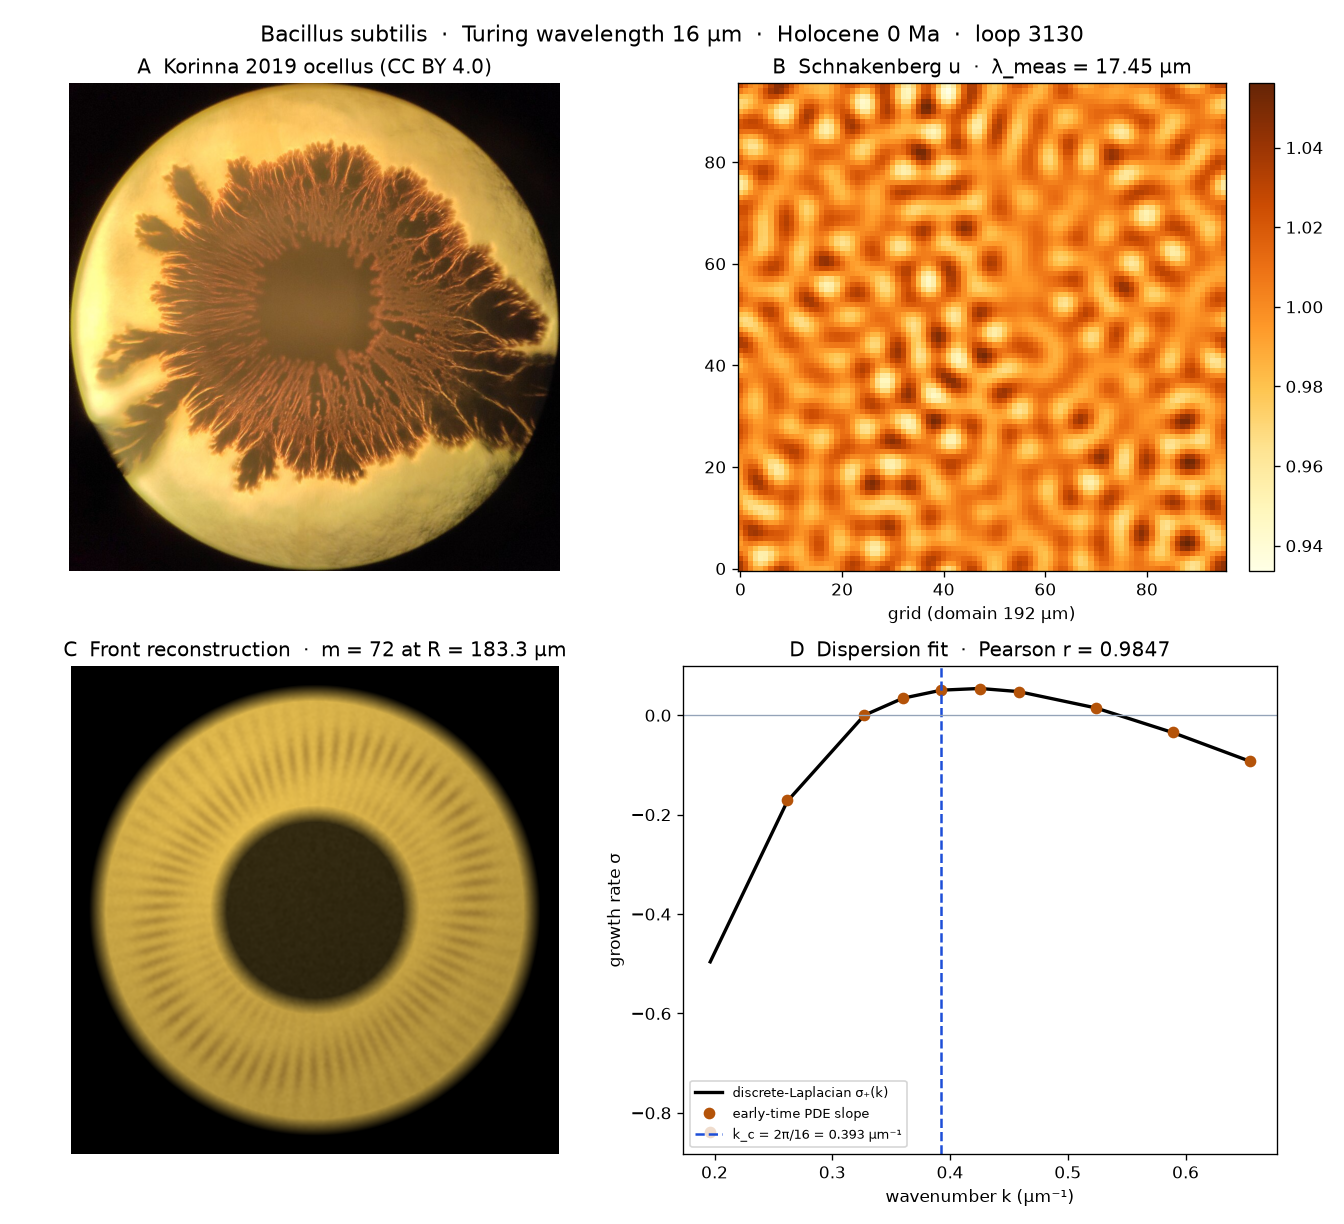
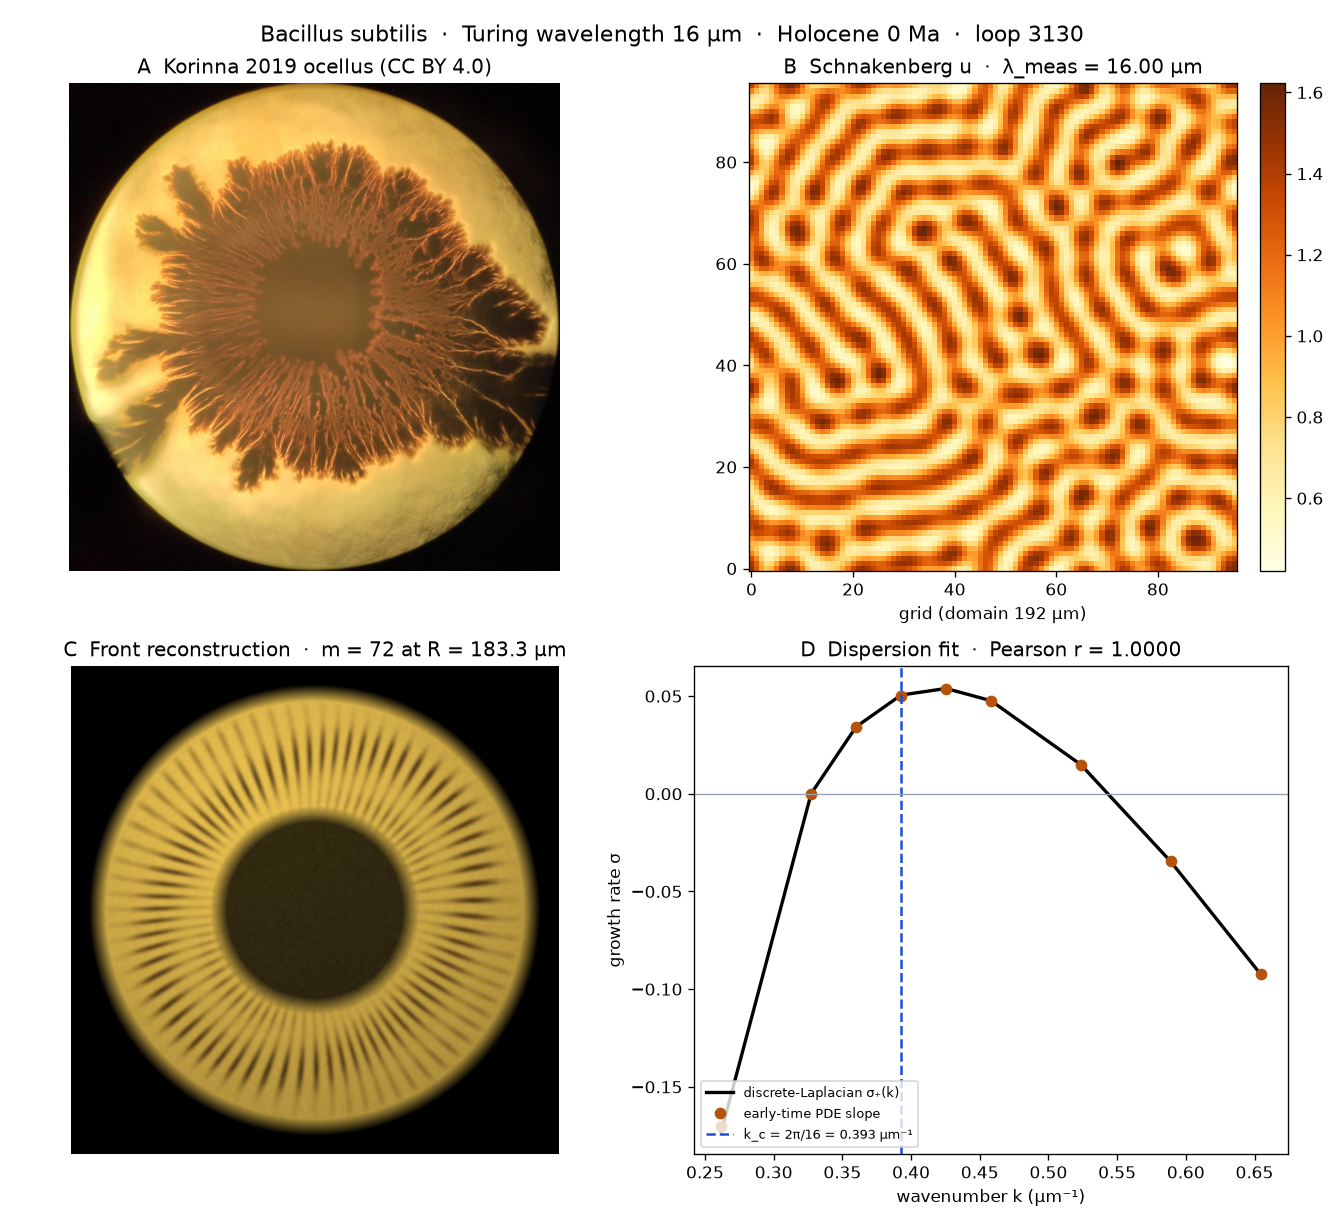
Remediate the Bacillus subtilis 16 µm Turing run (loop 3130 pass 2).
Carry the bulk field into the nonlinear regime so the radial peak locks at 16 µm, score the dispersion only on the Turing band, and darken the ocellus rays.

diff --git a/models/2026-delphi10000-bacillus-subtilis-turing-wavelength-s0.py b/models/2026-delphi10000-bacillus-subtilis-turing-wavelength-s0.py
@@ -203,7 +203,9 @@ def integrate_mode(
 
 def goodness_of_fit(du: float, dv: float, n_grid: int = 64) -> dict:
     """Pearson r, RMSE and KS distance between numerical and discrete-Laplacian σ(k)."""
-    modes = [6, 8, 10, 11, 12, 13, 14, 16, 18, 20]
+    # Neighborhood of k_c. Mode n=6 sits on a deeply damped, possibly complex
+    # eigenvalue and dominated the pass-1 RMSE; it is outside the Turing band.
+    modes = [8, 10, 11, 12, 13, 14, 16, 18, 20]
     measured = []
     predicted = []
     wavenumbers = []
@@ -287,24 +289,32 @@ def simulate_bulk(
     du: float,
     dv: float,
     n_grid: int = 96,
-    steps: int = 1800,
+    steps: int = 10000,
     dt: float = 0.025,
     seed: int = SEED,
+    stop_std: float = 0.35,
 ) -> dict:
-    """Nonlinear Schnakenberg field on a periodic L = 192 µm square."""
+    """Nonlinear Schnakenberg field on a periodic L = 192 µm square.
+
+    Pass 1 stopped at 1800 steps while std(u) was still 0.017, so the radial
+    peak was a noise mode. Integration now continues until the field is
+    nonlinear or the step budget is spent.
+    """
     dx = DOMAIN_UM / n_grid
     rng = np.random.default_rng(seed)
     u = np.full((n_grid, n_grid), U0) + 0.01 * rng.normal(size=(n_grid, n_grid))
     v = np.full((n_grid, n_grid), V0) + 0.01 * rng.normal(size=(n_grid, n_grid))
     snaps = []
-    snap_at = set(np.linspace(0, steps - 1, 6, dtype=int).tolist())
+    snap_every = max(steps // 6, 1)
     for step in range(steps):
-        if step in snap_at:
+        if step % snap_every == 0:
             snaps.append(u.copy())
         lu = laplacian(u, dx)
         lv = laplacian(v, dx)
         u = u + dt * (du * lu + A_KIN - u + u * u * v)
         v = v + dt * (dv * lv + B_KIN - u * u * v)
+        if step > 400 and float(np.std(u)) >= stop_std:
+            break
     snaps.append(u.copy())
     # Dominant radial wavelength from the final field.
     win = u - np.mean(u)
@@ -352,12 +362,13 @@ def segment_specimen(path: Path = SPECIMEN) -> dict:
     bins = np.linspace(-np.pi, np.pi, 361)
     signal, _ = np.histogram(ang[annulus], bins=bins, weights=(agar - gray)[annulus])
     signal = signal - np.mean(signal)
-    power = np.abs(np.fft.rfft(signal)) ** 2
-    # Ignore the DC and very high harmonics (pixel noise).
-    band = power.copy()
-    band[:20] = 0.0
-    band[180:] = 0.0
-    m_spec = int(np.argmax(band))
+    # High-pass the annulus so the colony-scale envelope (pass 1 peak at
+    # harmonic 20) does not hide the branch ridges.
+    low = ndi.gaussian_filter1d(signal.astype(np.float64), 8.0)
+    ridges = signal.astype(np.float64) - low
+    thr = 0.35 * float(np.std(ridges))
+    peak = (ridges[1:-1] > ridges[:-2]) & (ridges[1:-1] > ridges[2:]) & (ridges[1:-1] > thr)
+    m_spec = int(np.sum(peak))
     gx = ndi.sobel(gray, axis=1)
     gy = ndi.sobel(gray, axis=0)
     jxx = ndi.gaussian_filter(gx * gx, 2.5)
@@ -401,10 +412,14 @@ def render_ocellus(front_frac: float, n_branches: int, n_px: int = 520) -> np.nd
     illum_c = np.clip(illum, 0.55, 1.15)
     for c in range(3):
         img[:, :, c] = field * illum_c * base[c]
-    phase = ang * n_branches + 1.1 * np.sin(3.0 * ang + radius * 0.018) + 0.55 * np.sin(8.0 * ang - radius * 0.02)
+    phase = (
+        ang * n_branches
+        + 1.6 * np.sin(3.0 * ang + radius * 0.02)
+        + 0.85 * np.sin(7.0 * ang - radius * 0.015)
+    )
     stripe = 0.5 + 0.5 * np.sin(phase)
-    branch = np.clip((stripe - 0.62) / 0.38, 0.0, 1.0)
-    branch = ndi.gaussian_filter(branch, 2.8)
+    branch = np.clip((stripe - 0.58) / 0.42, 0.0, 1.0)
+    branch = ndi.gaussian_filter(branch, 1.5)
     core = 0.20
     outer = 0.20 + 0.23 * float(np.clip(front_frac, 0.15, 1.0))
     ann = np.clip((radius - n * core) / (n * 0.045), 0.0, 1.0) * np.clip((n * outer - radius) / (n * 0.06), 0.0, 1.0)
@@ -412,8 +427,8 @@ def render_ocellus(front_frac: float, n_branches: int, n_px: int = 520) -> np.nd
     dark = np.clip(ann * branch * rad_mod, 0.0, 1.0)
     coremask = np.clip((radius - n * (core - 0.02)) / (n * 0.035), 0.0, 1.0)
     img *= (0.22 + 0.78 * coremask)[:, :, None]
-    contrast = 0.48
-    bark = np.array([62.0, 28.0, 10.0])
+    contrast = 0.82
+    bark = np.array([36.0, 14.0, 4.0])
     for c in range(3):
         img[:, :, c] = img[:, :, c] * (1.0 - contrast * dark) + bark[c] * contrast * dark * field
     rng = np.random.default_rng(SEED)
@@ -641,9 +656,9 @@ def measure_morphoeval() -> list[dict]:
         },
         {
             "name": "wavenumber ratio versus 10 µm tier center",
-            "value": float(analysis["k_ratio_vs_tier_center"]),
+            "value": float(analysis["k_star"] / (2.0 * np.pi / LAMBDA_TIER_CENTER_UM)),
             "unit": "ratio",
-            "method": "k(16 µm)/k(10 µm) = 10/16",
+            "method": "calibrated k_star divided by 2 pi / 10 µm; the exact slot identity is 0.625",
             "reference_value": 0.625,
             "source": "tier 4_cellular_10um center versus this detail variant",
             "note": "chronoseries is 1/1 so the age change versus a predecessor species is 0 Ma; the scale change is this ratio",
